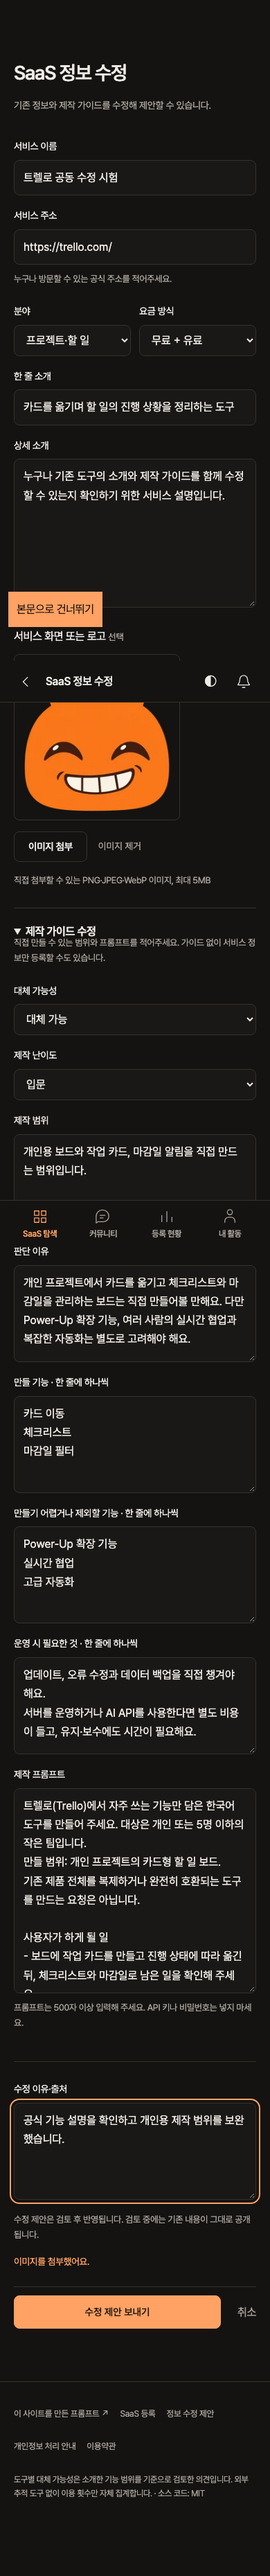
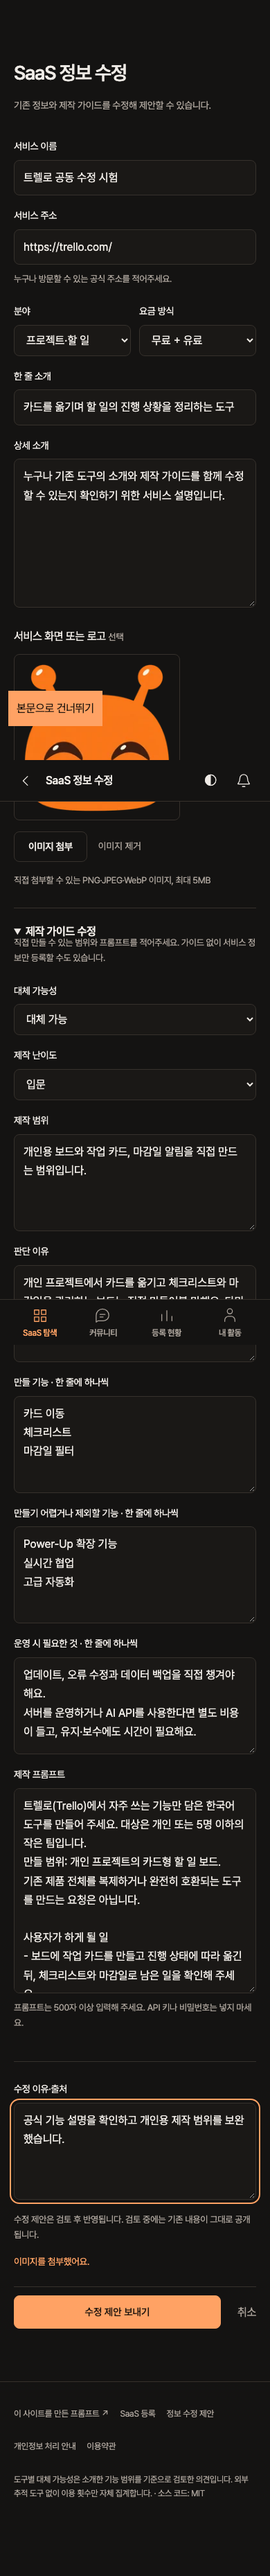
Record production catalog checks and await approval completion in tests

Changed region(s): [[0.0308, 0.2184, 0.6462, 0.312], [0.0923, 0.468, 0.7385, 0.5304], [0.7692, 0.468, 0.8923, 0.5304]]

diff --git a/test/e2e/catalog.spec.ts b/test/e2e/catalog.spec.ts
@@ -94,7 +94,12 @@ test('seeded SaaS supports member guide edits, private comparison, admin approva
     const row = adminPage.locator(`[data-edit-id="${eid}"]`);
     await row.getByText('수정 전·후 비교', { exact: true }).click();
     await expect(row).toContainText('트렐로 공동 수정 시험');
+    const approval = adminPage.waitForResponse(
+      (response) =>
+        response.url().endsWith('/api/services/edits/review') && response.request().method() === 'POST',
+    );
     await row.getByRole('button', { name: '수정 검토 결과 적용' }).click();
+    expect((await approval).status()).toBe(200);
     await expect(adminPage).toHaveURL(/\/admin#service-edits$/);
     await visitorPage.reload();
     await expect(visitorPage.getByRole('heading', { level: 1 })).toHaveText('트렐로 공동 수정 시험');

diff --git a/docs/qa/shared-catalog.md b/docs/qa/shared-catalog.md
@@ -20,3 +20,13 @@
 - [모바일 제안 확인](screenshots/shared-saas-proposal-390.png)
 - [전체 브라우저 결과](browser-summary.json)
 - [재시작·복원 결과](persistence-results.json)
+
+## 운영 도메인 확인
+
+`https://vibepan.com` 배포 후 SaaS 121개·가이드 121개·제작 후기 0건이 DB와 공개 API·화면에서 일치한다. 이전 121개 URL, 통합 검색, 가이드 있음/없음, 분야별 목록, 로그인으로 이어지는 등록·수정 진입을 확인했다. 라이트·다크 모드와 360·390·768·1440px에서 가로 넘침과 브라우저 예외가 없다. 운영 콘텐츠를 시험 값으로 바꾸지 않았다.
+
+운영 DB의 제약 위반은 없으며 운영자 계정 수는 0이다. 승인할 계정은 사용자의 이메일 지정을 기다리며 임의로 승격하지 않았다.
+
+[운영 확인 결과](shared-catalog-production-results.json) · [실제 모바일 목록](screenshots/shared-live-home-light-390.png) · [실제 기존 가이드](screenshots/shared-live-slack-dark-390.png)
+
+CI에서는 승인 요청이 끝나기 전에 방문자 화면을 새로 고치는 검사 순서 문제를 발견했다. 같은 관리자 URL을 기다리던 검사를 실제 승인 응답이 끝날 때까지 기다리도록 수정했다. 서비스 동작 코드는 바뀌지 않았다.
